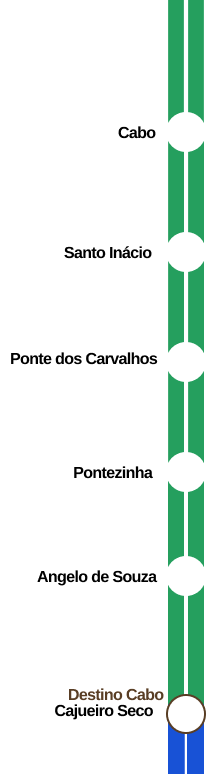
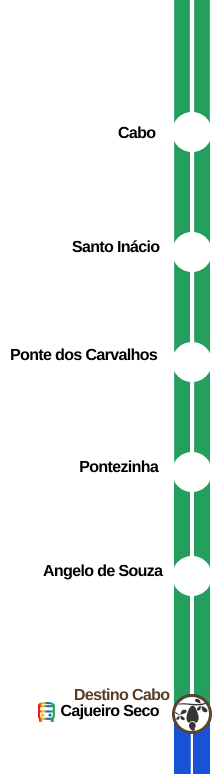
Atualização das imagens e dos destinos

diff --git a/lib/pages/home/components/integracao_menu.dart b/lib/pages/home/components/integracao_menu.dart
@@ -71,16 +71,34 @@ class IntegracaoMenu extends StatelessWidget {
                                       child: Row(
                                         mainAxisAlignment: MainAxisAlignment.spaceEvenly,
                                         children: [
-                                          Text(
-                                            "Os terminais SEI são representados \n"
-                                                "por este símbolo. Indicando que são \n"
-                                                "terminais integrados, incluídos ao metrô.",
-                                            style: TextStyle(
-                                              color: textMain,
-                                              fontSize: 14,
+                                          RichText( //Separando o texto e deixando uma parte em negrito
+                                            text: TextSpan(
+                                                text: "Os ",
+                                                style: TextStyle(
+                                                    color: textMain,
+                                                    fontSize: 14
+                                                ),
+                                                children: <TextSpan> [ // aqui que vai ficar em negrito
+                                                  TextSpan(
+                                                      text: "terminais SEI",
+                                                      style: TextStyle(
+                                                          color: textMain,
+                                                          fontSize: 14,
+                                                          fontWeight: FontWeight.w600
+                                                      )
+                                                  ),
+                                                  TextSpan(
+                                                      text: " são representados\n"
+                                                          "por este símbolo. Indicando que são \n"
+                                                          "terminais integrados, incluídos ao metrô.",
+                                                      style: TextStyle(
+                                                          color: textMain,
+                                                          fontSize: 14
+                                                      )
+                                                  )
+                                                ]
                                             ),
                                           ),
-
                                           ShaderMask(
                                             shaderCallback: (Rect) => LinearGradient(
                                                 colors: [
@@ -120,16 +138,34 @@ class IntegracaoMenu extends StatelessWidget {
                                           child: Row(
                                             mainAxisAlignment: MainAxisAlignment.spaceEvenly,
                                             children: [
-                                              Text(
-                                                "As integrações Metrô-Ônibus são\n"
-                                                    "representados por este símbolo. Indicando \n"
-                                                    "que são os ônibus que não entram nos \nterminais SEI.",
-                                                style: TextStyle(
-                                                  color: textMain,
-                                                  fontSize: 14,
-                                                ),
+                                              RichText( //Separando o texto e deixando uma parte em negrito
+                                                  text: TextSpan(
+                                                    text: "As ",
+                                                    style: TextStyle(
+                                                      color: textMain,
+                                                      fontSize: 14
+                                                    ),
+                                                    children: <TextSpan> [ // aqui que vai ficar em negrito
+                                                      TextSpan(
+                                                        text: "integrações Metrô-Ônibus",
+                                                        style: TextStyle(
+                                                          color: textMain,
+                                                          fontSize: 14,
+                                                          fontWeight: FontWeight.w600
+                                                        )
+                                                      ),
+                                                      TextSpan(
+                                                          text: " são\n"
+                                                          "representados por este símbolo. Indicando \n"
+                                                          "que são os ônibus que não entram nos \nterminais SEI.",
+                                                          style: TextStyle(
+                                                              color: textMain,
+                                                              fontSize: 14
+                                                      )
+                                                      )
+                                                    ]
+                                                  ),
                                               ),
-
                                              Icon(
                                                   color: icons,
                                                   Icons.directions_bus_filled_outlined,

diff --git a/lib/pages/home/components/home_card.dart b/lib/pages/home/components/home_card.dart
@@ -21,7 +21,7 @@ class HomeCard extends StatelessWidget {
               color: Colors.black.withOpacity(0.1),
               spreadRadius: 3,
               blurRadius: 4,
-              offset: Offset(0, 2) // muda a posição da sombra
+              offset: const Offset(0, 2) // muda a posição da sombra
           ),
         ],
       ),
@@ -35,7 +35,7 @@ class HomeCard extends StatelessWidget {
           Column(
             mainAxisAlignment: MainAxisAlignment.spaceEvenly,
             children: [
-              Align(
+              const Align(
                 alignment: Alignment.center,
                 child: Text(
                   "Acompanhe a rotas das linhas \n e estações do metrô \n de Recife",
@@ -47,40 +47,41 @@ class HomeCard extends StatelessWidget {
                 ),
               ),
               Padding(
-                padding: EdgeInsets.only(
+                padding: const EdgeInsets.only(
                   left: 65
                 ),
 
-                child: Container(
+                //Button
+                child: SizedBox(
                   height: 18,
-                  child: ElevatedButton(
-                    onPressed: (){
-                      Navigator.push(
-                          context,
-                          MaterialPageRoute(builder:
-                          ((context) => selecaoLinha())
-                          )
-                      );
-                    },
-                    style: ButtonStyle(
-                      elevation: MaterialStateProperty.all(0),
-                        foregroundColor: MaterialStateProperty.all(Colors.black),
-                        backgroundColor:MaterialStateProperty.all(blueDetails),
-                        shape: MaterialStateProperty.all<RoundedRectangleBorder>(
-                            RoundedRectangleBorder(
-                              borderRadius: BorderRadius.circular(3),
+                    child: ElevatedButton(
+                      onPressed: (){
+                        Navigator.push(
+                            context,
+                            MaterialPageRoute(builder:
+                            ((context) => const selecaoLinha())
                             )
-                        )
-                    ),
+                        );
+                      },
+                      style: ButtonStyle(
+                        elevation: MaterialStateProperty.all(0),
+                          foregroundColor: MaterialStateProperty.all(Colors.black),
+                          backgroundColor:MaterialStateProperty.all(blueDetails),
+                          shape: MaterialStateProperty.all<RoundedRectangleBorder>(
+                              RoundedRectangleBorder(
+                                borderRadius: BorderRadius.circular(3),
+                              )
+                          )
+                      ),
 
-                    child: Text(
-                      "VER LINHAS",
-                      style: TextStyle(
-                          fontSize: 12,
-                          fontWeight: FontWeight.w600
+                      child: const Text(
+                        "VER LINHAS",
+                        style: TextStyle(
+                            fontSize: 12,
+                            fontWeight: FontWeight.w600
+                        ),
                       ),
                     ),
-                  ),
                 ),
               ),
             ],

diff --git a/lib/pages/linha__selecionada/linha__centro_camaragibe/components/destination_camaragibe.dart b/lib/pages/linha__selecionada/linha__centro_camaragibe/components/destination_camaragibe.dart
@@ -18,7 +18,7 @@ class DestinoCab extends StatelessWidget {
                 Padding(
                   padding: const EdgeInsets.only(bottom: 15),
                   child: Text(
-                    "Destino",
+                    "Destinos",
                     style: TextStyle(
                         color: titles,
                         fontSize: 25,
@@ -42,6 +42,8 @@ class DestinoCab extends StatelessWidget {
                         "Jaboatão",
                         style: TextStyle(
                             color: titles,
+                            decoration: TextDecoration.underline,
+                            decorationColor: Colors.black,
                             fontSize: 25,
                             fontWeight: FontWeight.w600
                         ),
@@ -50,7 +52,9 @@ class DestinoCab extends StatelessWidget {
                       Text(
                         "Camaragibe",
                         style: TextStyle(
-                            color: orangeNavegation,
+                            color: orangeLinhaCentro,
+                            decoration: TextDecoration.underline,
+                            decorationColor: orangeLinhaCentro,
                             fontSize: 25,
                             fontWeight: FontWeight.w600
                         ),

diff --git a/lib/pages/linha__selecionada/linha__vlt_cajueiro_seco/components/destination_cajueiro.dart b/lib/pages/linha__selecionada/linha__vlt_cajueiro_seco/components/destination_cajueiro.dart
@@ -17,7 +17,7 @@ class DestinoCajueiro extends StatelessWidget {
                 Padding(
                   padding: const EdgeInsets.only(bottom: 15),
                   child: Text(
-                    "Destino",
+                    "Destinos",
                     style: TextStyle(
                         color: titles,
                         fontSize: 25,
@@ -34,6 +34,8 @@ class DestinoCajueiro extends StatelessWidget {
                         "Cajueiro seco",
                         style: TextStyle(
                           color: greenLinhaVlt,
+                          decoration: TextDecoration.underline,
+                          decorationColor: greenLinhaVlt,
                           fontSize: 25,
                           fontWeight: FontWeight.w600,
                         ),
@@ -54,6 +56,8 @@ class DestinoCajueiro extends StatelessWidget {
                         "Cabo",
                         style: TextStyle(
                             color: titles,
+                            decoration: TextDecoration.underline,
+                            decorationColor: Colors.black,
                             fontSize: 25,
                             fontWeight: FontWeight.w600
                         ),

diff --git a/lib/pages/linha__selecionada/linha__vlt_cabo/components/destination_cabo.dart b/lib/pages/linha__selecionada/linha__vlt_cabo/components/destination_cabo.dart
@@ -17,7 +17,7 @@ class DestinoCabo extends StatelessWidget {
                 Padding(
                   padding: const EdgeInsets.only(bottom: 15),
                   child: Text(
-                    "Destino",
+                    "Destinos",
                     style: TextStyle(
                       color: titles,
                       fontSize: 25,
@@ -44,6 +44,8 @@ class DestinoCabo extends StatelessWidget {
                           "Cajueiro seco",
                           style: TextStyle(
                             color: titles,
+                            decoration: TextDecoration.underline,
+                            decorationColor: Colors.black,
                             fontSize: 25,
                             fontWeight: FontWeight.w600,
                           ),
@@ -56,6 +58,8 @@ class DestinoCabo extends StatelessWidget {
                         "Cabo",
                         style: TextStyle(
                           color: greenLinhaVlt,
+                          decoration: TextDecoration.underline,
+                          decorationColor: greenLinhaVlt,
                           fontSize: 25,
                           fontWeight: FontWeight.w600,
                         ),

diff --git a/lib/pages/linha__selecionada/linha__centro_jaboatao/components/destination_jaboatao.dart b/lib/pages/linha__selecionada/linha__centro_jaboatao/components/destination_jaboatao.dart
@@ -19,7 +19,7 @@ class DestinoJab extends StatelessWidget {
                 Padding(
                   padding: const EdgeInsets.only(bottom: 15),
                   child: Text(
-                    "Destino",
+                    "Destinos",
                     style: TextStyle(
                         color: titles,
                         fontSize: 25,
@@ -34,6 +34,8 @@ class DestinoJab extends StatelessWidget {
                       "Jaboatão",
                       style: TextStyle(
                           color: redLinhaCentro,
+                          decoration: TextDecoration.underline,
+                          decorationColor: redLinhaCentro,
                           fontSize: 25,
                           fontWeight: FontWeight.w600
                       ),
@@ -51,6 +53,8 @@ class DestinoJab extends StatelessWidget {
                         "Camaragibe",
                         style: TextStyle(
                             color: titles,
+                            decoration: TextDecoration.underline,
+                            decorationColor: Colors.black,
                             fontSize: 25,
                             fontWeight: FontWeight.w600
                         ),

diff --git a/lib/pages/selecao__linha/selecao_linhas.dart b/lib/pages/selecao__linha/selecao_linhas.dart
@@ -1,5 +1,4 @@
 import 'package:flutter/material.dart';
-import 'package:metroguia/widgets/bar_navegation.dart';
 import 'package:metroguia/pages/selecao__linha/components/body_linha.dart';
 
 class selecaoLinha extends StatelessWidget {
